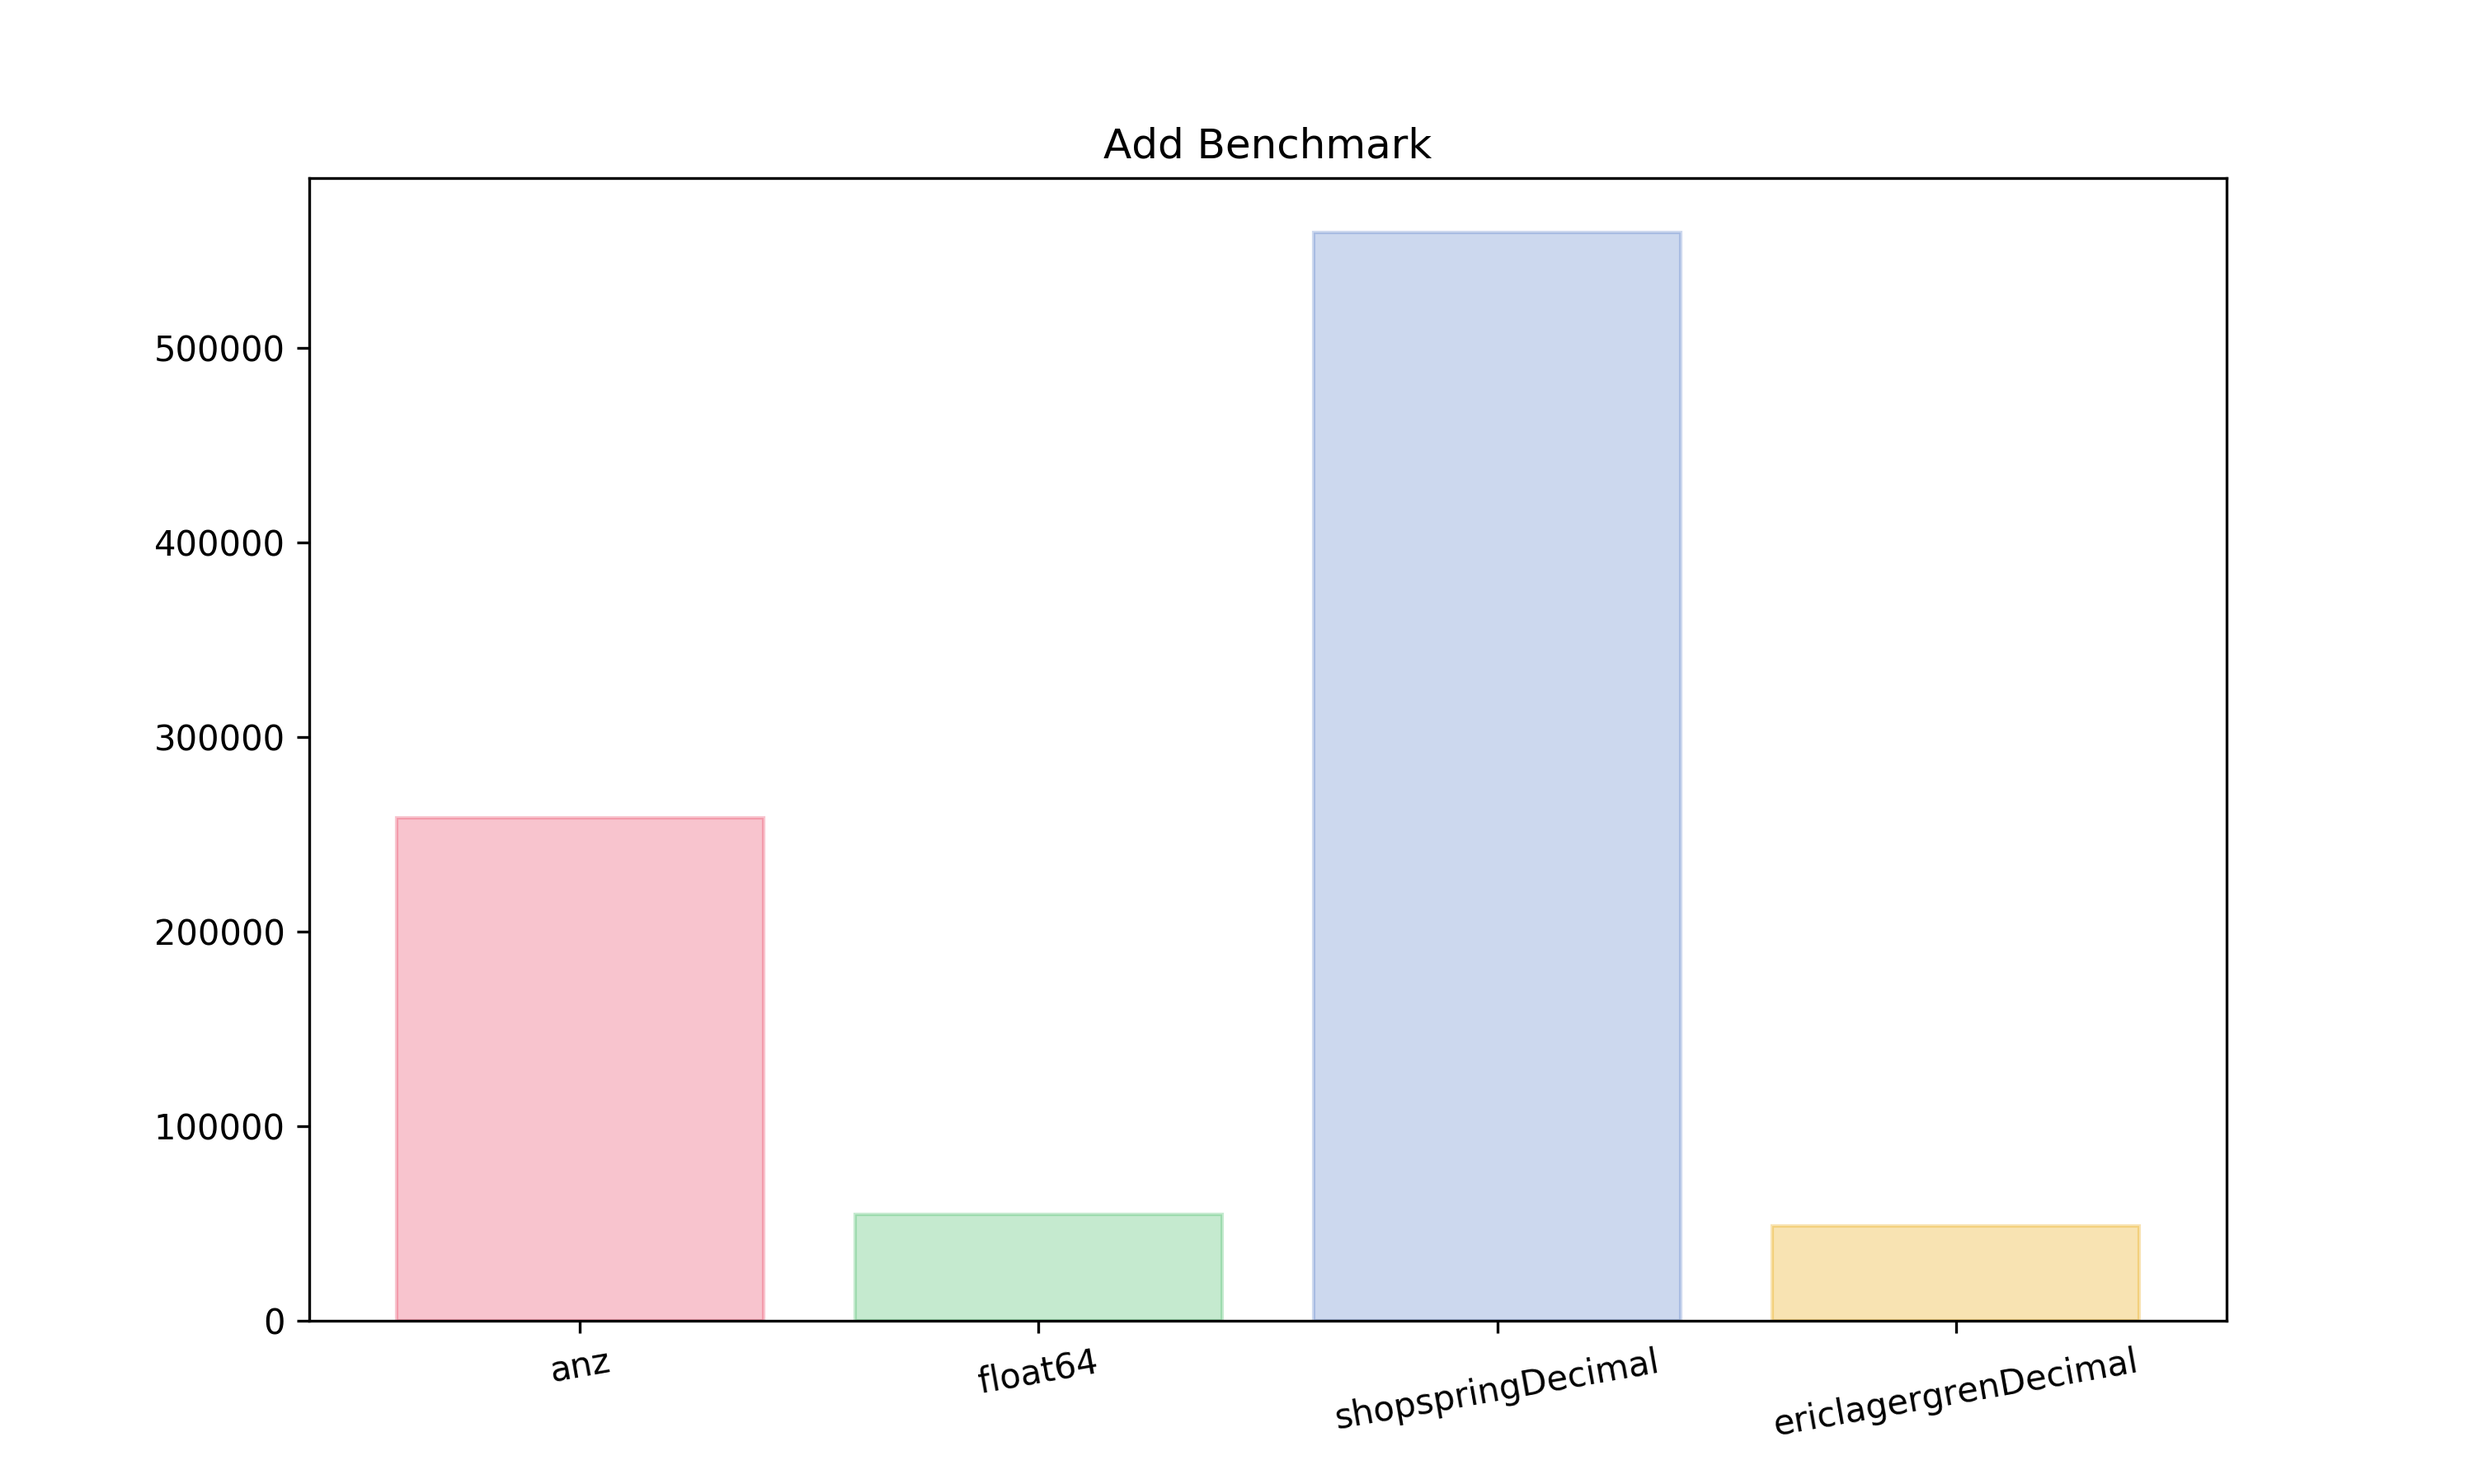
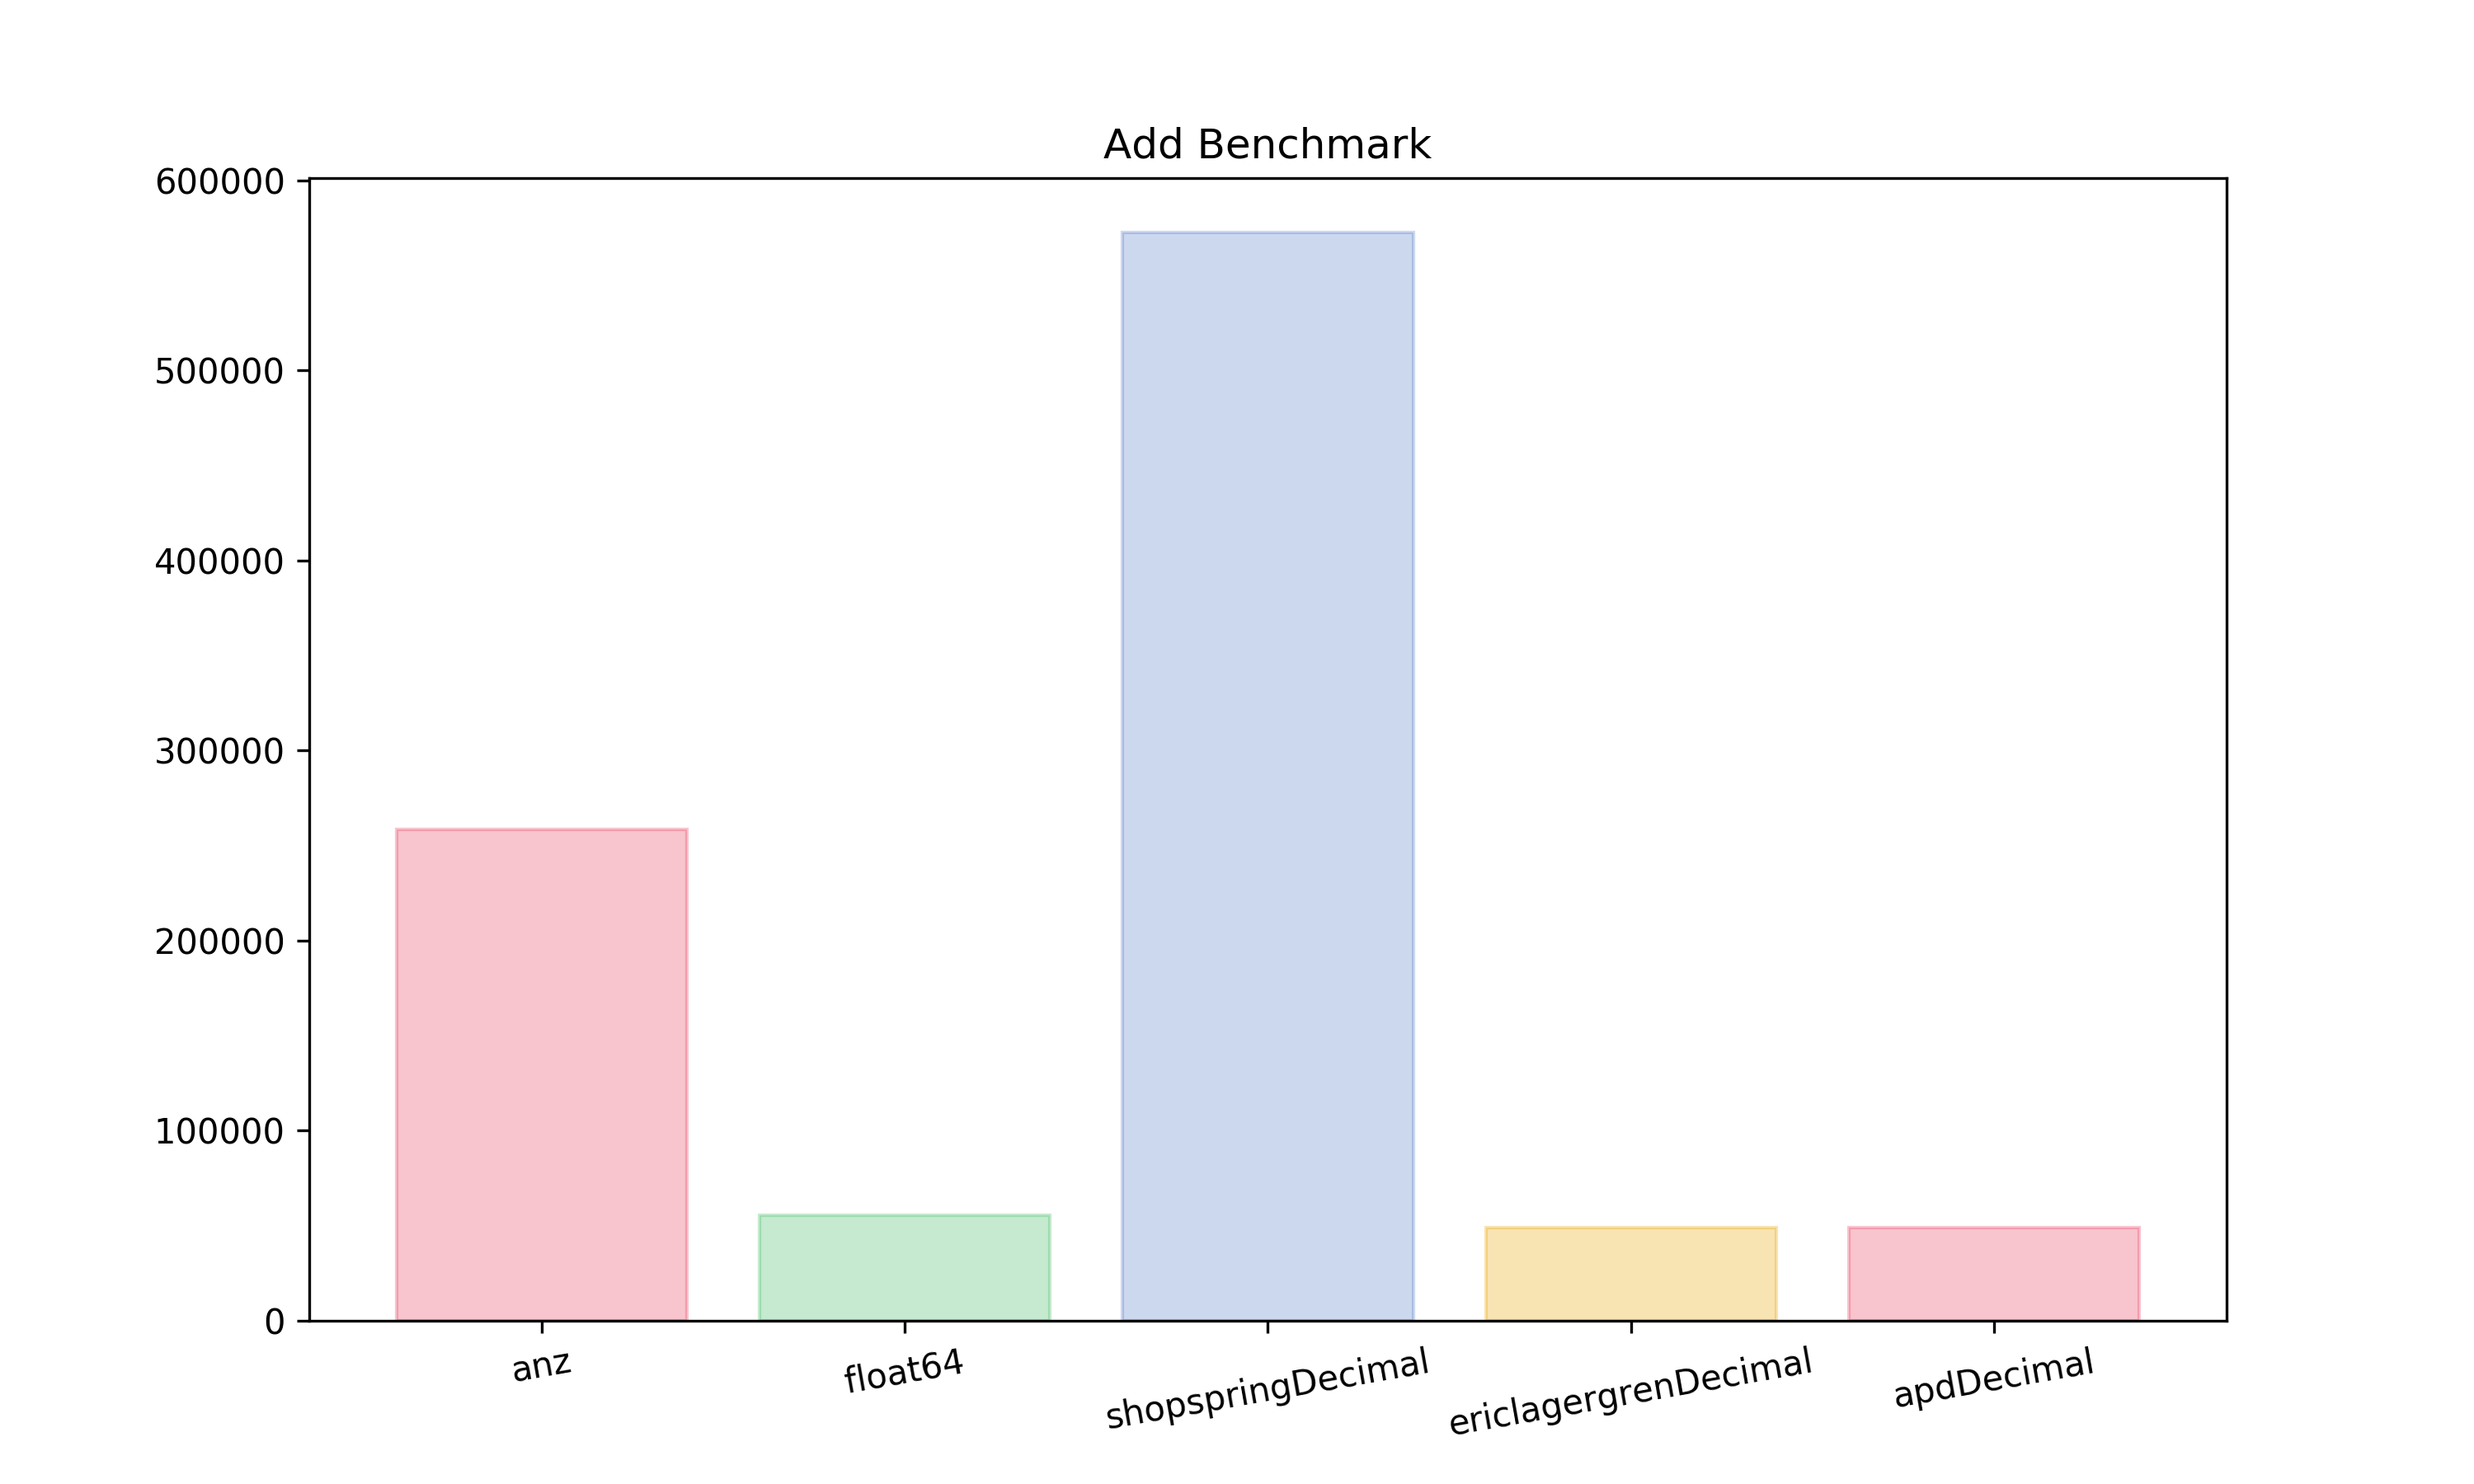
Add apd to benchmarks

diff --git a/examples/benchmark/benchmarkSuite_test.go b/examples/benchmark/benchmarkSuite_test.go
@@ -9,6 +9,8 @@ import (
 	"strconv"
 	"testing"
 
+	apd "github.com/cockroachdb/apd"
+
 	"github.com/anz-bank/decimal"
 	ericlagergren "github.com/ericlagergren/decimal"
 	shopspring "github.com/shopspring/decimal"
@@ -42,9 +44,10 @@ var prettyNames = map[string]string{
 	"decimal.Decimal64": "anz",
 	"float64":           "float64",
 	"decimal.Decimal":   "shopspringDecimal",
-	"decimal.Big":       "ericlagergrenDecimal"}
+	"decimal.Big":       "ericlagergrenDecimal",
+	"apd.Decimal":       "apdDecimal"}
 
-var typelist = []interface{}{decimal.Decimal64{}, 0.0, shopspring.Decimal{}, ericlagergren.Big{}}
+var typelist = []interface{}{decimal.Decimal64{}, 0.0, shopspring.Decimal{}, ericlagergren.Big{}, apd.Decimal{}}
 
 func BenchmarkDecimal(b *testing.B) {
 	// map a type (decimal.Decimal64 eg) to a list of testcases
@@ -101,13 +104,12 @@ func ParseDecimal(val1, val2 string, v interface{}) (a, b interface{}) {
 	case ericlagergren.Big:
 		c := ericlagergren.Big{}
 		d := ericlagergren.Big{}
-		// var err, err2 bool
 		a, _ = c.SetString(val1)
 		b, _ = d.SetString(val2)
+	case apd.Decimal:
+		a, _, _ = apd.NewFromString(val1)
+		b, _, _ = apd.NewFromString(val2)
 
-		if a == nil || b == nil {
-			panic(val1 + val2)
-		}
 	default:
 
 	}
@@ -132,6 +134,8 @@ func runtests(a, b, c interface{}, op string) {
 		execOpShop(a.(shopspring.Decimal), b.(shopspring.Decimal), c.(shopspring.Decimal), op)
 	case ericlagergren.Big:
 		execOpEric(a.(ericlagergren.Big), b.(ericlagergren.Big), c.(ericlagergren.Big), op)
+	case apd.Decimal:
+		execOpAdp(a.(apd.Decimal), b.(apd.Decimal), c.(apd.Decimal), op)
 	}
 }
 
@@ -220,4 +224,22 @@ func execOp(a, b, c decimal.Decimal64, op string) decimal.Decimal64 {
 	default:
 	}
 	return decimal.Zero64
+}
+func execOpAdp(a, b, c apd.Decimal, op string) apd.Decimal {
+	switch op {
+	case "add":
+		r := apd.ErrDecimal{}
+		return *r.Add(&a, &a, &b)
+	case "multiply":
+		r := apd.ErrDecimal{}
+		return *r.Mul(&a, &a, &b)
+	case "abs":
+		r := apd.ErrDecimal{}
+		return *r.Abs(&a, &b)
+	case "divide":
+		r := apd.ErrDecimal{}
+		return *r.Quo(&a, &a, &b)
+	default:
+	}
+	return apd.Decimal{}
 }
